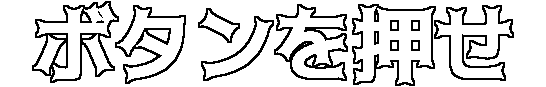
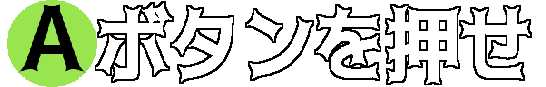
タイトルのボタンを押せを変更

diff --git a/Game/GameScene/Title/Title.cpp b/Game/GameScene/Title/Title.cpp
@@ -15,7 +15,7 @@ Title::Title(std::shared_ptr<Camera> camera)
 	}
 	player = std::make_unique<Enemy>();
 	pushAtext_ = std::make_unique<Texture2D>();
-	pushAtext_->Texture("Resources/hud/pushA.png", "./Shader/Texture2D.VS.hlsl", "./Shader/Texture2D.PS.hlsl");
+	pushAtext_->Texture("Resources/hud/pushA_title.png", "./Shader/Texture2D.VS.hlsl", "./Shader/Texture2D.PS.hlsl");
 	
 	//	音声のロード
 	

diff --git a/Game/GameScene/GameScene.h b/Game/GameScene/GameScene.h
@@ -78,6 +78,9 @@ private: // モデル用変数
 	// ゲージ用
 	std::vector<std::shared_ptr<Texture2D>> gaugeTextures_;
 
+	// チュートリアル用
+	
+
 private:
 	//	パーツ用データの元
 	std::vector<WorldTransform> parts_;
